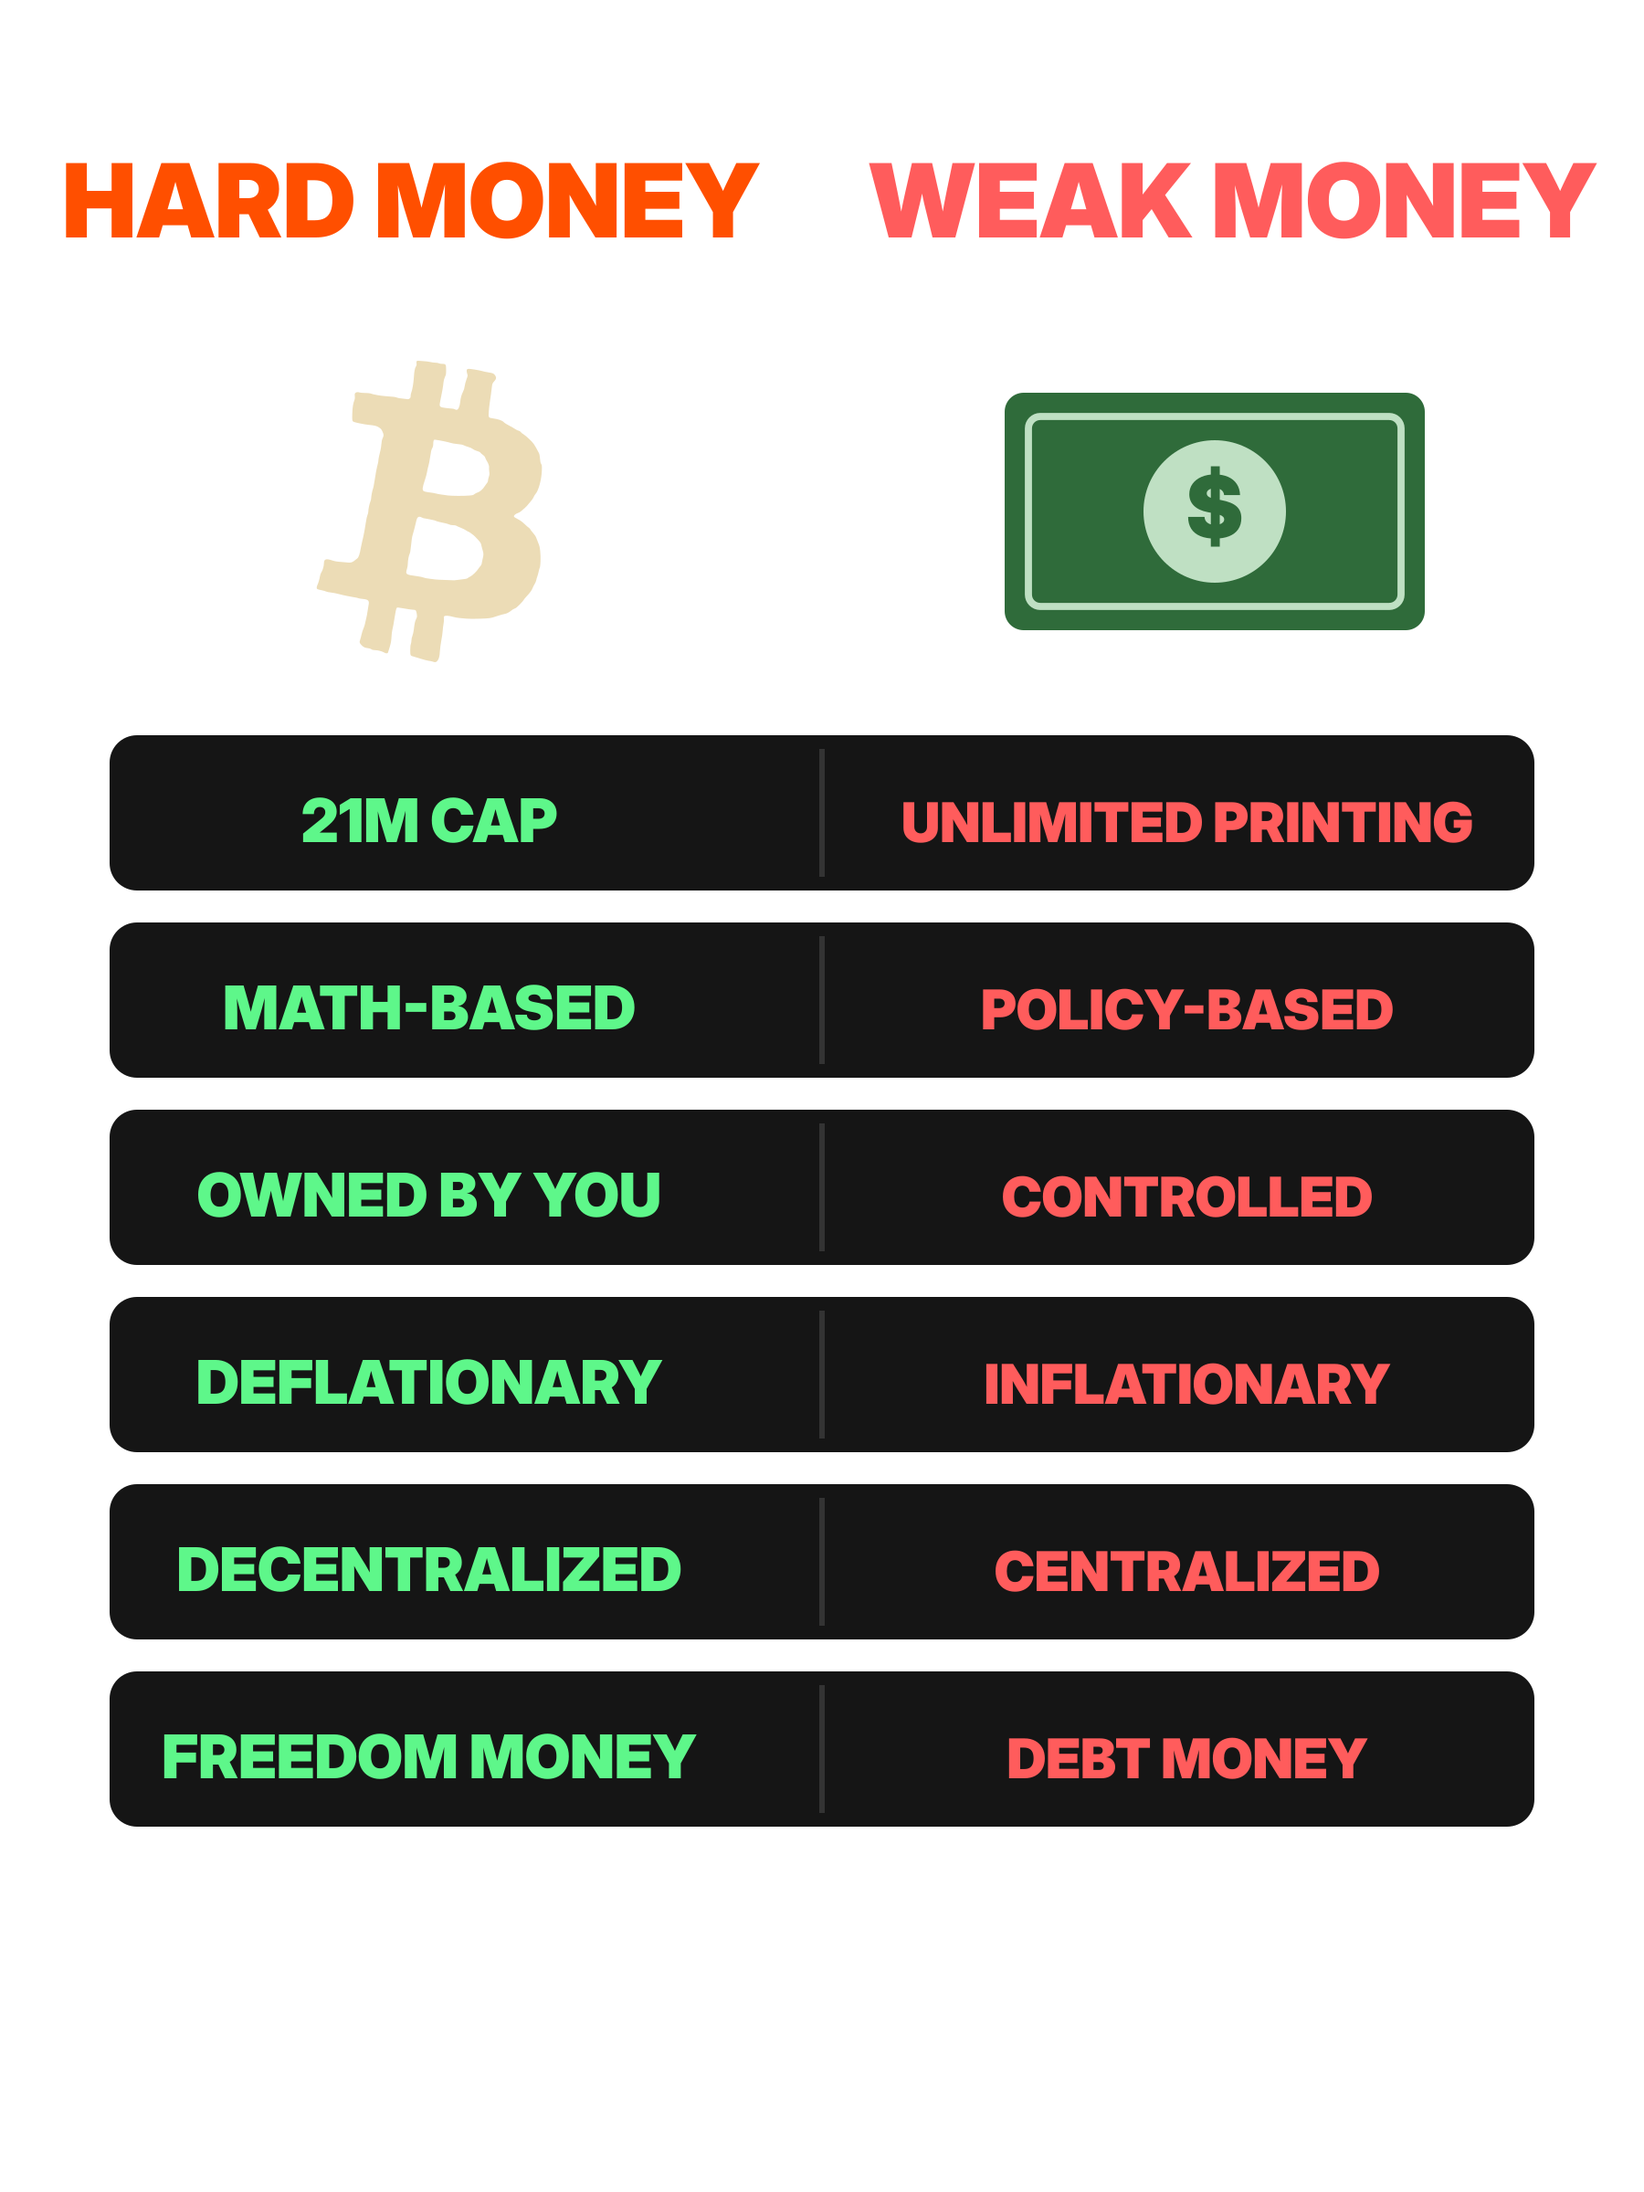
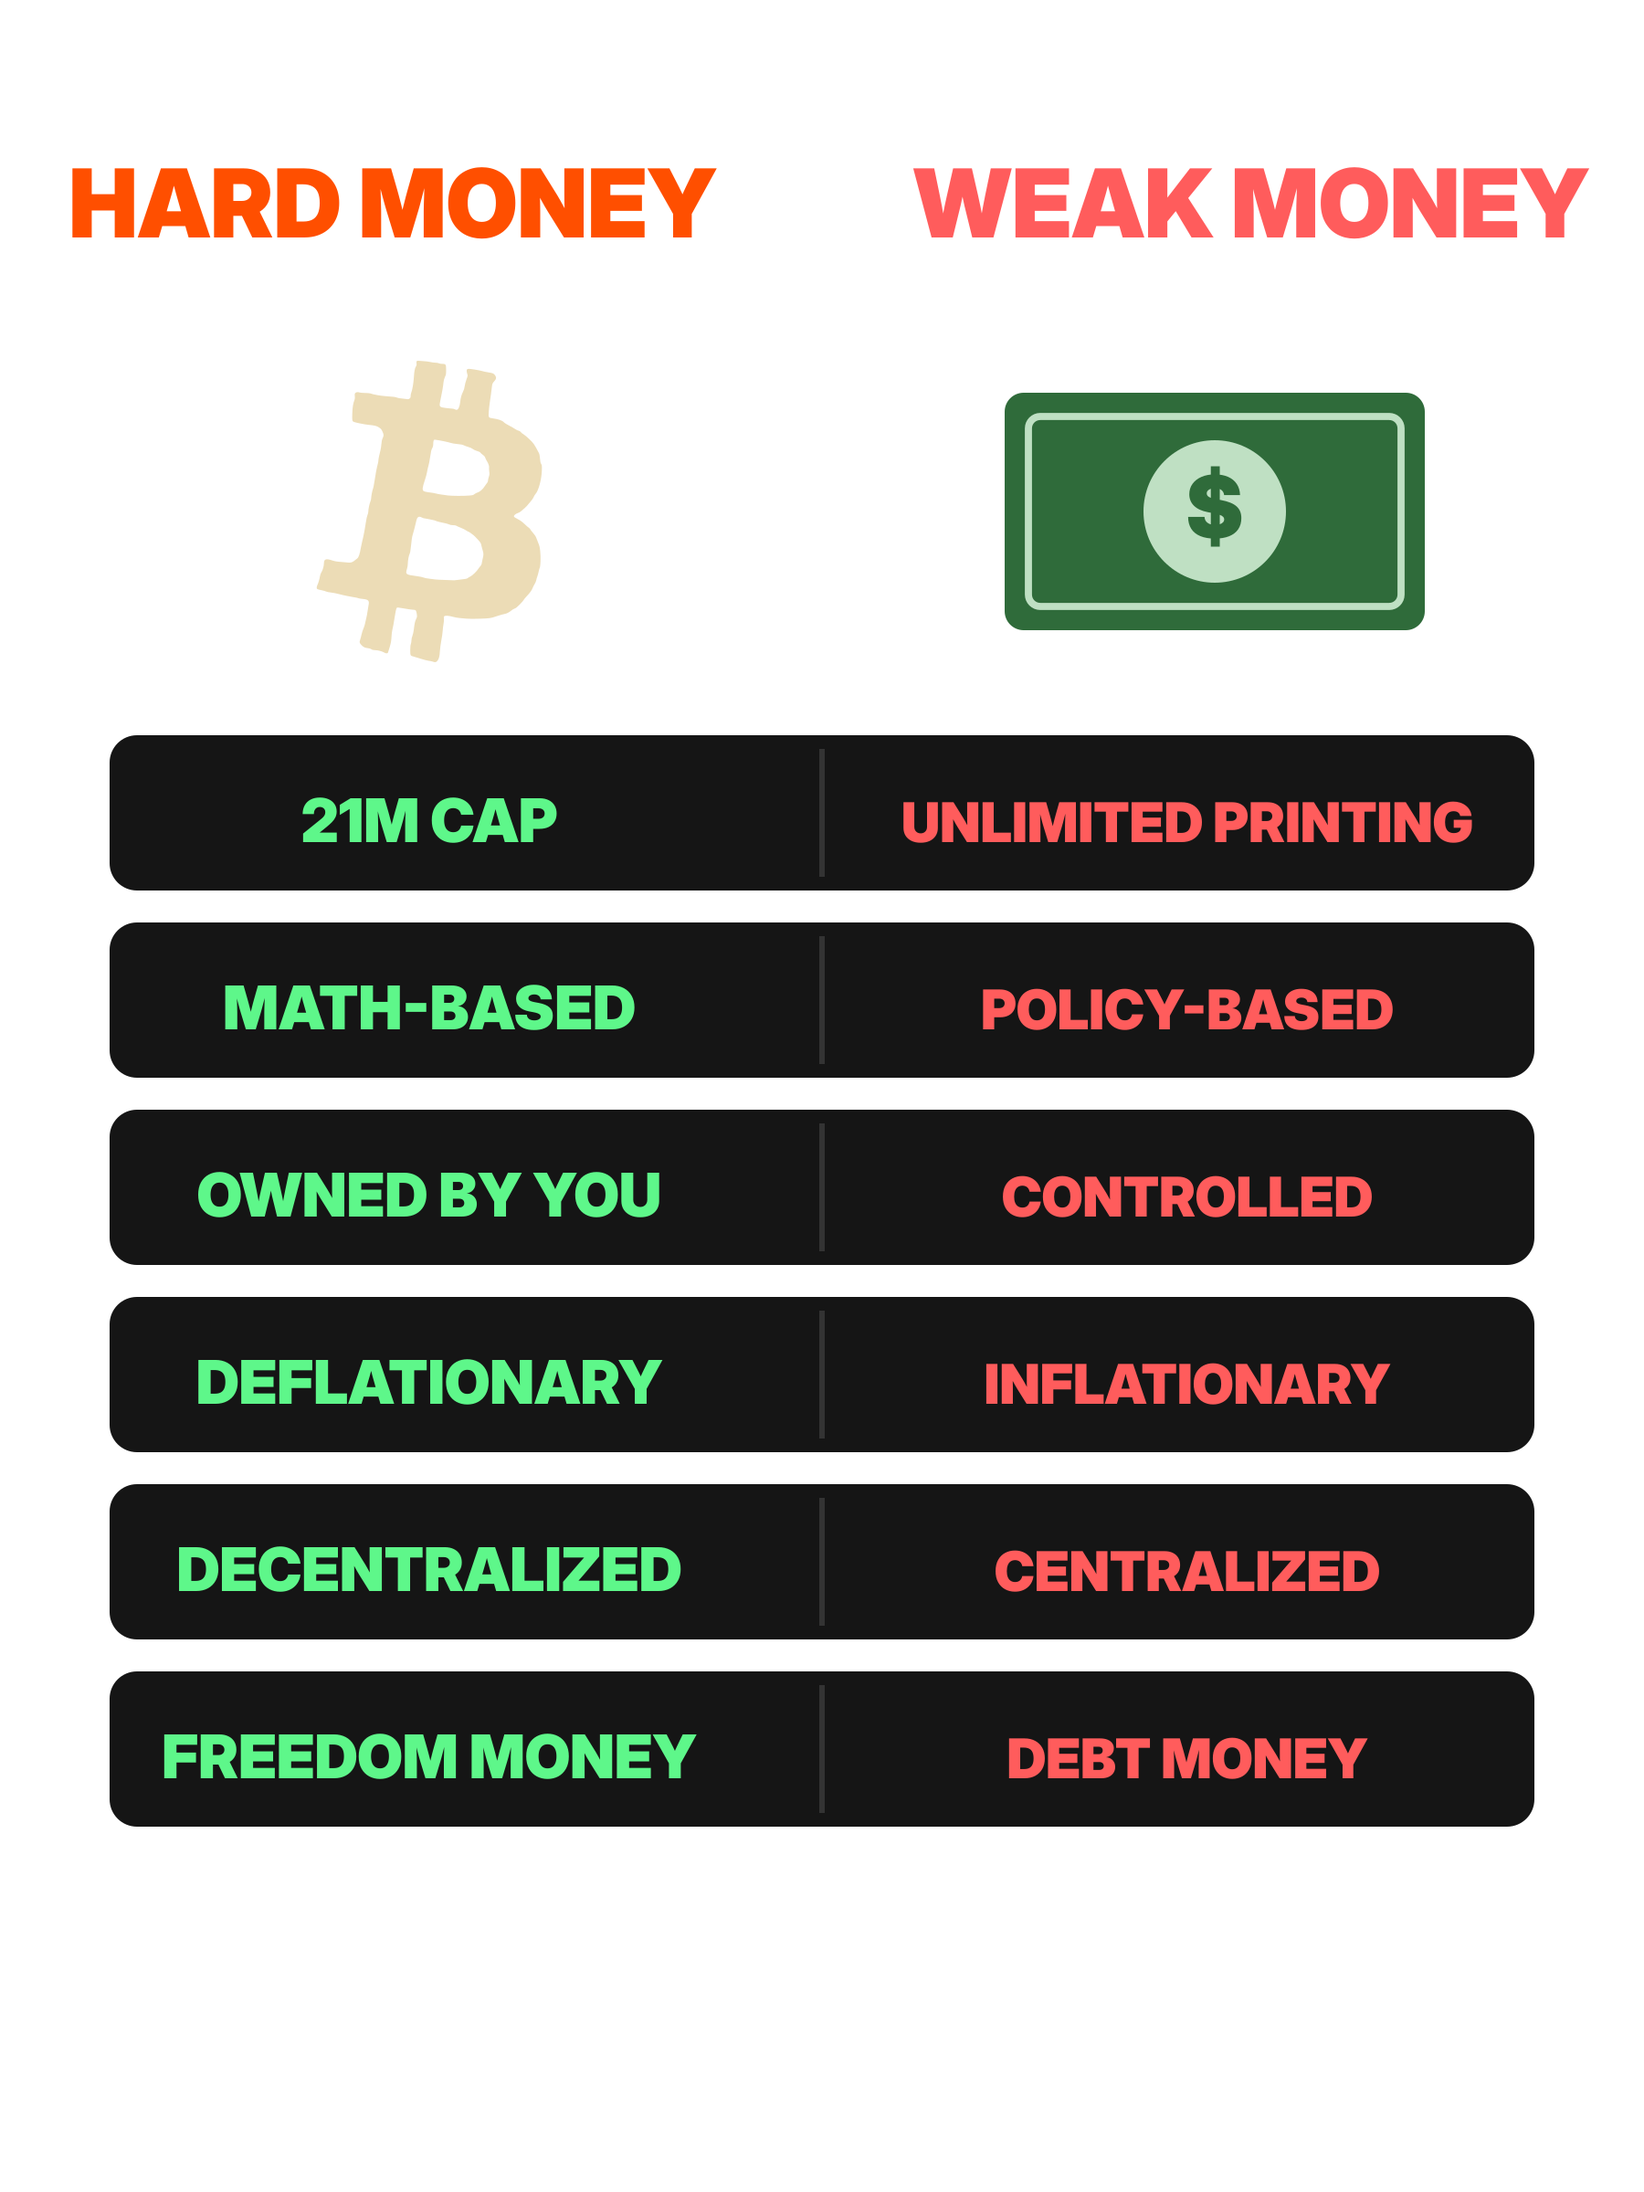
ecosystem orange circuitry accent (real this time), hard-vs-weak title air

Changed region(s): [[0.0311, 0.0625, 0.4667, 0.125], [0.5289, 0.0625, 0.9644, 0.125]]

diff --git a/src/gen4.py b/src/gen4.py
@@ -129,8 +129,8 @@ def bill(cx, cy, w, h):
 
 
 b = ""
-b += txt(450, 260, "HARD MONEY", 112, fill=ORANGE) + txt(1350, 260, "WEAK MONEY", 112, fill=RED)
-b += txt(900, 250, "vs", 80, fill=WHITE, weight=700)
+b += txt(430, 260, "HARD MONEY", 104, fill=ORANGE) + txt(1370, 260, "WEAK MONEY", 104, fill=RED)
+b += txt(900, 252, "vs", 64, fill=WHITE, weight=700)
 b += care_b(470, 560, 330, fill=CREAM, grain=False) + bill(1330, 560, 460, 260)
 rows = [("21M CAP", "UNLIMITED PRINTING"), ("MATH-BASED", "POLICY-BASED"), ("OWNED BY YOU", "CONTROLLED"),
         ("DEFLATIONARY", "INFLATIONARY"), ("DECENTRALIZED", "CENTRALIZED"), ("FREEDOM MONEY", "DEBT MONEY")]
